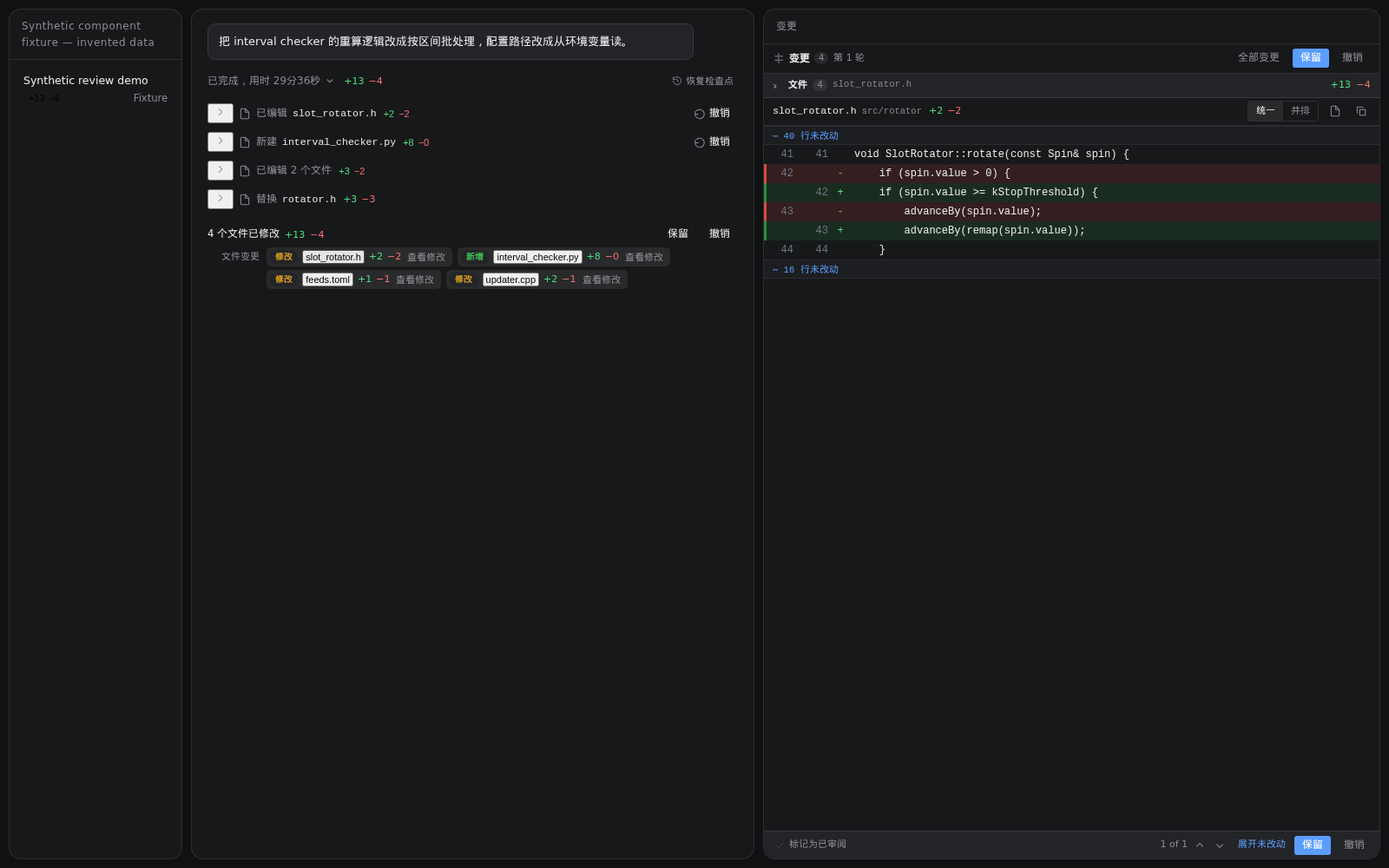
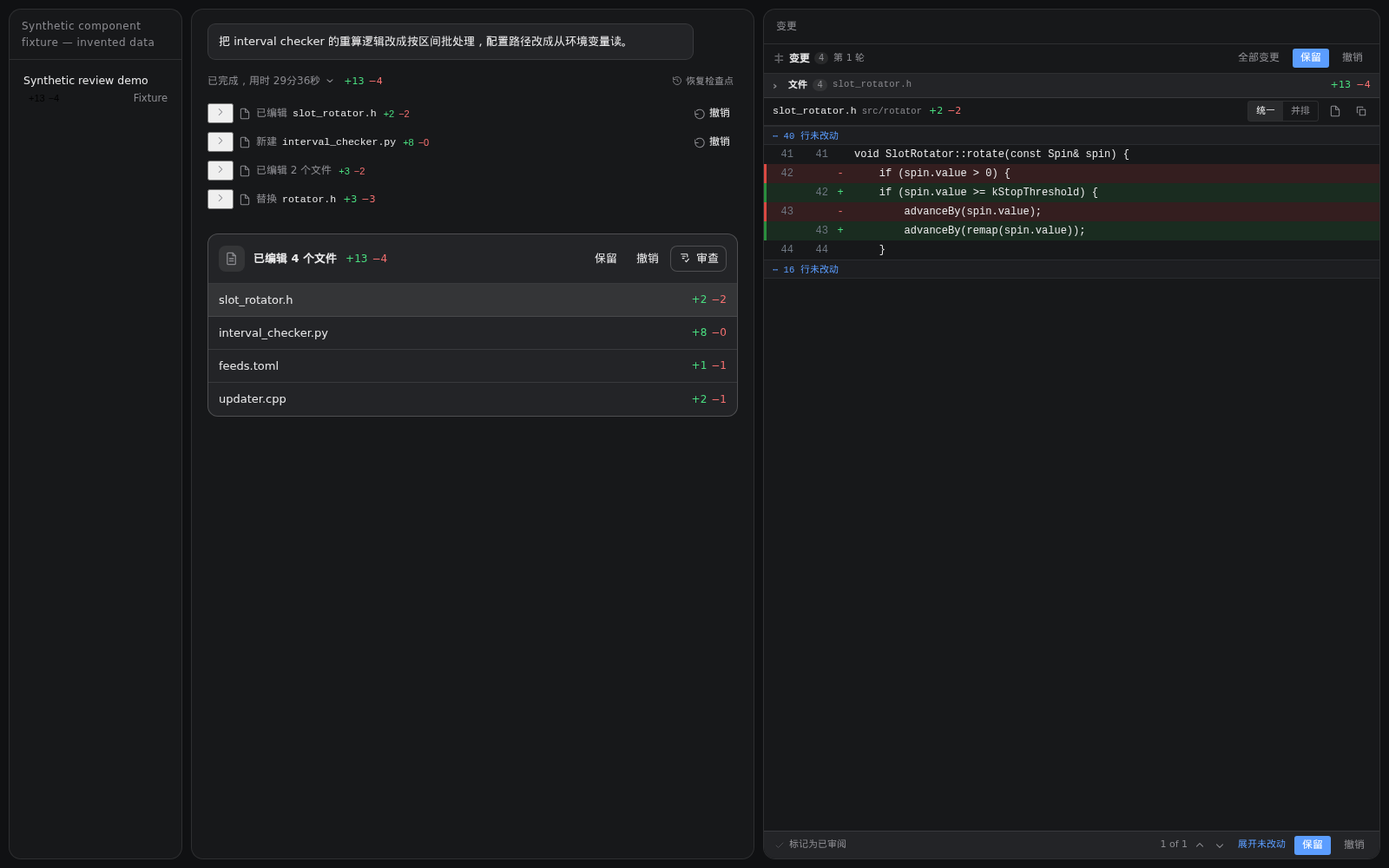
feat(ui): turn footer as a ProducedFiles-style card with a foldable file list
Reuse dsh-file-review's card geometry (12px radius, 30px icon tile, 56px header, 38px div-separated rows, 13px text) instead of a second look for the same numbers: header shows 已编辑 N 个文件 +A -R with 保留/撤销 as quiet text buttons and a bordered 审查, six rows then 另有 N 个文件, and any title/审查/row click opens Changes. Actions sit in one right-aligned group so a narrow column wraps them together. Bump to 0.5.0.

Changed region(s): [[0.125, 0.248, 0.5312, 0.465], [0.5, 0.434, 0.5312, 0.465]]

diff --git a/lib/client.js b/lib/client.js
@@ -1856,20 +1856,67 @@ window.__ModuleLoader__.load({
 			);
 		}
 
+		/** Files listed in the turn footer before the rest fold behind one button. */
+		const TURN_CARD_ROWS = 6;
+
 		/**
-		 * Copilot-style completion footer under a turn: the change count with
-		 * Keep and Undo.
+		 * The 18px document glyph in the footer card's leading tile.
+		 * @returns the svg element.
+		 */
+		function CardFileGlyph() {
+			return h(
+				"svg",
+				{
+					className: "ld-turnglyph",
+					viewBox: "0 0 20 20",
+					fill: "none",
+					stroke: "currentColor",
+					strokeWidth: 1.4,
+					strokeLinecap: "round",
+					strokeLinejoin: "round",
+					"aria-hidden": "true"
+				},
+				h("path", { d: "M5.25 2.75h6l3.5 3.5v10a1 1 0 0 1-1 1h-8.5a1 1 0 0 1-1-1V3.75a1 1 0 0 1 1-1Z" }),
+				h("path", { d: "M11.25 2.75v3.5h3.5M7 10h5M7 13h5" })
+			);
+		}
+
+		/**
+		 * The 16px sheet-and-check glyph on the footer card's Review button.
+		 * @returns the svg element.
+		 */
+		function CardReviewGlyph() {
+			return h(
+				"svg",
+				{
+					className: "ld-turnglyph ld-turnglyph-sm",
+					viewBox: "0 0 20 20",
+					fill: "none",
+					stroke: "currentColor",
+					strokeWidth: 1.4,
+					strokeLinecap: "round",
+					strokeLinejoin: "round",
+					"aria-hidden": "true"
+				},
+				h("path", { d: "M4.5 3.5h8a1 1 0 0 1 1 1v3M6.5 6.5h4M6.5 9.5h2.25" }),
+				h("path", { d: "m10.5 13 1.5 1.5 3.5-4" })
+			);
+		}
+
+		/**
+		 * Completion card under a turn: a header with the edited-file count,
+		 * totals, Keep/Undo/Review, then one divider-separated row per file.
 		 * Renders nothing for a turn that changed no file.
 		 * @param props - `{ turn, sessionId, t }`.
 		 * @returns the element, or null.
 		 */
 		function TurnFooter(props) {
 			const t = makeT(props.t);
-			const zh = isChinese(props.t);
 			const revision = useRevision();
 			const data = useSessionRecords(props.sessionId);
 			const [busy, setBusy] = react.useState(false);
 			const [notice, setNotice] = react.useState(null);
+			const [expanded, setExpanded] = react.useState(false);
 			const sessionId = props.sessionId;
 			const { from, to } = turnWindow(props.turn);
 			const scopeKey = `${sessionId}:${turnNumber(props.turn) ?? from}`;
@@ -1880,7 +1927,6 @@ window.__ModuleLoader__.load({
 			const rows = (data.records ?? []).filter((record) => inTurn(record, props.turn));
 			if (rows.length === 0) return null;
 
-			const paths = new Set(rows.map((record) => record.path));
 			let added = 0;
 			let removed = 0;
 			for (const record of rows) {
@@ -1920,32 +1966,54 @@ window.__ModuleLoader__.load({
 				}
 			}
 
+			// The card lists the first six files and folds the rest behind one
+			// button, so a turn that touched forty files still reads at a glance.
+			const total = byPath.length;
+			const shown = expanded ? byPath : byPath.slice(0, TURN_CARD_ROWS);
+			const hidden = total - shown.length;
+			const openAll = () => openPanel(undefined, sessionId, { turn: turnNumber(props.turn), from, to });
+			const disabled = busy === scopeKey || openCount === 0;
+			const reviewTitle = t("turn.reviewTitle", "Review every file this turn changed");
+			const titleKey = total === 1 ? "turn.editedOne" : "turn.edited";
+			const titleFallback = total === 1 ? "Edited 1 file" : "Edited {count} files";
+
 			return h(
-				"div",
-				{ className: "ld-turn" },
+				"section",
+				{ className: "ld-turn", "aria-label": reviewTitle },
 				h(
 					"div",
-					{ className: "ld-turnbar" },
+					{ className: "ld-turnhead" },
+					h("span", { className: "ld-turnicon", "aria-hidden": "true" }, h(CardFileGlyph, {})),
 					h(
-						"button",
-						{
-							type: "button",
-							className: "ld-files",
-							title: t("turn.filesTitle", "Open this turn's changes"),
-							onClick: () => openPanel(undefined, sessionId, { turn: turnNumber(props.turn), from, to })
-						},
-						fill(t, "turn.files", "{files} files changed", { files: paths.size })
+						"div",
+						{ className: "ld-turntitle" },
+						h(
+							"button",
+							{
+								type: "button",
+								className: "ld-turntitlename",
+								title: t("turn.filesTitle", "Open this turn's changes"),
+								onClick: openAll
+							},
+							fill(t, titleKey, titleFallback, { count: total })
+						),
+						h(
+							"span",
+							{ className: "ld-turnstats", "aria-label": `${added} added, ${removed} removed` },
+							h("span", { className: "ld-add" }, `+${added}`),
+							h("span", { className: "ld-del" }, `−${removed}`)
+						)
 					),
-					h("span", { className: "ld-add" }, `+${added}`),
-					h("span", { className: "ld-del" }, `−${removed}`),
-					h("span", { className: "ld-spacer" }),
 					h(
-						"button",
-						{
-							className: "ld-btn",
-							type: "button",
-							disabled: busy === scopeKey || openCount === 0,
-							title: t("turn.keepTitle", "Dismiss these edits without touching the files"),
+						"div",
+						{ className: "ld-turnactions" },
+						h(
+							"button",
+							{
+								type: "button",
+								className: "ld-turnbtn",
+								disabled,
+								title: t("turn.keepTitle", "Dismiss these edits without touching the files"),
 							onClick: () => void act("keep-turn")
 						},
 						t("bar.keep", "Keep")
@@ -1953,31 +2021,64 @@ window.__ModuleLoader__.load({
 					h(
 						"button",
 						{
-							className: "ld-btn",
 							type: "button",
-							disabled: busy === scopeKey || openCount === 0,
+							className: "ld-turnbtn",
+							disabled,
 							title: t("turn.undoTitle", "Write back the text every edit in this turn replaced"),
 							onClick: () => void act("revert-turn")
 						},
 						t("bar.undo", "Undo")
+					),
+					h(
+						"button",
+						{
+							type: "button",
+							className: "ld-turnbtn ld-turnbtn-strong",
+							title: reviewTitle,
+							onClick: openAll
+						},
+						h(CardReviewGlyph, {}),
+						t("turn.review", "Review")
+						)
 					)
 				),
-				byPath.length > 0
-					? h("div", { className: "ld-filechanges" },
-							h("span", { className: "ld-filechangeslabel" }, zh ? "文件变更" : "File changes"),
-							h("div", { className: "ld-fchips" }, byPath.map((item) => {
-								const first = rows.find((record) => record.path === item.path);
-								const letter = changeLetter(first);
-								const badge = zh ? (letter === "A" ? "新增" : letter === "D" ? "删除" : "修改") : (letter === "A" ? "Added" : letter === "D" ? "Deleted" : "Modified");
+				total > 0
+					? h(
+							"div",
+							{ className: "ld-turnlist" },
+							shown.map((item) => {
 								const parts = pathParts(displayPath(item.path, data?.root ?? props.cwd, props.home));
 								const open = () => openPanel(undefined, sessionId, { turn: turnNumber(props.turn), path: item.path, from, to });
-								return h("span", { key: item.path, className: `ld-fchip ${letter}` },
-									h("button", { type: "button", className: "ld-fchipbadge", title: badge, onClick: open }, badge),
-									h("button", { type: "button", className: "ld-fileitem", title: item.path, onClick: open }, parts.base),
-									h("span", { className: "ld-fchipstats" }, h("span", { className: "ld-add" }, `+${item.added}`), h("span", { className: "ld-del" }, `−${item.removed}`)),
-									h("button", { type: "button", className: "ld-fchipaction", onClick: open }, zh ? "查看修改" : "View diff")
+								return h(
+									"button",
+									{
+										key: item.path,
+										type: "button",
+										className: "ld-turnrow",
+										title: item.path,
+										"aria-label": fill(t, "turn.rowLabel", "Review the change to {path}", { path: parts.base }),
+										onClick: open
+									},
+									h("span", { className: "ld-turnrowname" }, parts.base),
+									h(
+										"span",
+										{ className: "ld-turnstats" },
+										h("span", { className: "ld-add" }, `+${item.added}`),
+										h("span", { className: "ld-del" }, `−${item.removed}`)
+									)
 								);
-							}))
+							}),
+							hidden > 0
+								? h(
+										"button",
+										{
+											type: "button",
+											className: "ld-turnmore",
+											onClick: () => setExpanded(true)
+										},
+										hidden === 1 ? fill(t, "turn.moreOne", "1 more file") : fill(t, "turn.more", "{count} more files", { count: hidden })
+									)
+								: null
 						)
 					: null,
 				notice?.key === scopeKey && notice.text ? h("div", { className: "ld-notice", role: "alert" }, notice.text) : null
@@ -2036,6 +2137,8 @@ window.__ModuleLoader__.load({
 	--ld-bg: var(--dsw-alias-bg-base, #1f1f1f);
 	--ld-chrome: var(--dsw-alias-bg-module-platform, #252526);
 	--ld-line: var(--dsw-alias-border-l1, #3c3c3c);
+	--ld-line-strong: var(--dsw-alias-border-l2, #4f4f4f);
+	--ld-card: var(--dsw-alias-bg-container, var(--ld-chrome));
 	--ld-text: var(--dsw-alias-label-primary, #cccccc);
 	--ld-muted: var(--dsw-alias-label-tertiary, #9d9d9d);
 	--ld-hover: var(--dsw-alias-interactive-bg-hover, rgba(255, 255, 255, .06));
@@ -2197,22 +2300,28 @@ window.__ModuleLoader__.load({
 .ld-inline { margin: 2px 0 6px 20px; border: 1px solid var(--ld-line); border-radius: 4px; overflow: hidden; background: var(--ld-bg); }
 .ld-inline .ld-diff { margin: 0; border: 0; border-radius: 0; }
 .ld-inline-note { padding: 4px 8px; font-size: 10.5px; color: var(--ld-muted); background: var(--ld-chrome); border-bottom: 1px solid var(--ld-line); }
-.ld-turn { display: flex; flex-direction: column; gap: 2px; padding: 4px 0 2px; }
-.ld-turnbar { display: flex; align-items: center; gap: 6px; min-height: 22px; font-size: 11.5px; color: var(--ld-muted); flex-wrap: wrap; }
-.ld-files { display: inline-flex; align-items: center; gap: 4px; padding: 0; border: 0; background: none; font: inherit; font-size: 11.5px; color: var(--ld-text); cursor: pointer; }
-.ld-files:hover { color: var(--ld-accent); }
-.ld-filechanges { display: flex; align-items: flex-start; gap: 8px; padding: 2px 0 0 16px; font-size: 11px; line-height: 20px; color: var(--ld-muted); }
-.ld-filechangeslabel { flex: none; padding-top: 1px; }
-.ld-fchips { display: flex; flex-wrap: wrap; gap: 4px 6px; min-width: 0; }
-.ld-fchip { display: inline-flex; align-items: center; gap: 5px; min-width: 0; padding: 1px 6px 1px 4px; border-radius: 5px; background: var(--ld-hover); }
-.ld-fchip .ld-fileitem { width: auto; min-height: 0; padding: 0 2px; font-size: 11px; }
-.ld-fchipbadge { flex: none; height: 16px; padding: 0 6px; border: 0; border-radius: 8px; background: var(--ld-chrome); color: var(--ld-muted); font: inherit; font-size: 9.5px; font-weight: 600; line-height: 16px; letter-spacing: .01em; cursor: pointer; white-space: nowrap; }
-.ld-fchip.A .ld-fchipbadge { color: #3fb950; }
-.ld-fchip.D .ld-fchipbadge { color: #f85149; }
-.ld-fchip.M .ld-fchipbadge { color: #d29922; }
-.ld-fchipstats { display: inline-flex; gap: 5px; font-size: 10.5px; }
-.ld-fchipaction { border: 0; background: none; padding: 0 2px; border-radius: 3px; font: inherit; font-size: 10.5px; color: var(--ld-muted); cursor: pointer; }
-.ld-fchipaction:hover { color: var(--ld-accent); text-decoration: underline; }
+.ld-turn { display: flex; flex-direction: column; margin: 14px 0 2px; border: 1px solid var(--ld-line-strong); border-radius: 12px; background: var(--ld-card); color: var(--ld-text); font-size: 13px; overflow: hidden; }
+.ld-turnhead { display: flex; flex-wrap: wrap; align-items: center; gap: 8px 10px; min-height: 56px; padding: 10px 12px; }
+.ld-turnicon { display: grid; place-items: center; flex: none; width: 30px; height: 30px; border-radius: 8px; background: var(--ld-hover); color: var(--ld-muted); }
+.ld-turnglyph { width: 18px; height: 18px; }
+.ld-turnglyph-sm { width: 16px; height: 16px; }
+.ld-turntitle { display: flex; flex: 1 1 auto; align-items: baseline; gap: 10px; min-width: 0; }
+.ld-turntitlename { min-width: 0; max-width: 100%; padding: 0; border: 0; background: none; color: inherit; font: inherit; font-size: 13px; font-weight: 600; text-align: left; white-space: nowrap; overflow: hidden; text-overflow: ellipsis; cursor: pointer; }
+.ld-turntitlename:hover { color: var(--ld-accent); }
+.ld-turnstats { display: inline-flex; flex: none; gap: 5px; font-variant-numeric: tabular-nums; }
+.ld-turnstats .ld-add, .ld-turnstats .ld-del { font-size: 12px; }
+.ld-turnactions { display: flex; flex: none; align-items: center; gap: 4px; margin-left: auto; }
+.ld-turnbtn { display: inline-flex; flex: none; align-items: center; gap: 5px; min-height: 30px; padding: 0 8px; border: 1px solid transparent; border-radius: 8px; background: none; color: var(--ld-text); font: inherit; font-size: 12.5px; white-space: nowrap; cursor: pointer; }
+.ld-turnbtn:hover:not(:disabled) { background: var(--ld-hover); }
+.ld-turnbtn:disabled { opacity: .45; cursor: default; }
+.ld-turnbtn-strong { border-color: var(--ld-line-strong); background: var(--ld-card); }
+.ld-turnlist { border-top: 1px solid var(--ld-line); }
+.ld-turnrow { display: flex; align-items: center; gap: 12px; width: 100%; min-height: 38px; margin: 0; padding: 0 12px; border: 0; border-bottom: 1px solid var(--ld-line); background: none; color: var(--ld-text); font: inherit; font-size: 13px; text-align: left; cursor: pointer; }
+.ld-turnrow:hover { background: var(--ld-hover); }
+.ld-turnrow:last-child { border-bottom: 0; }
+.ld-turnrowname { flex: 1 1 auto; min-width: 0; overflow: hidden; text-overflow: ellipsis; white-space: nowrap; }
+.ld-turnmore { display: block; width: 100%; min-height: 34px; margin: 0; padding: 0 12px; border: 0; background: none; color: var(--ld-muted); font: inherit; font-size: 12px; line-height: 34px; text-align: left; cursor: pointer; }
+.ld-turnmore:hover { background: var(--ld-hover); color: var(--ld-text); }
 .ld-badge { display: inline-flex; align-items: center; gap: 5px; padding: 0 2px; border: 0; background: none; font-variant-numeric: tabular-nums; cursor: pointer; }
 .ld-badge:hover .ld-add, .ld-badge:hover .ld-del { text-decoration: underline; }
 .ld-row { display: flex; flex-direction: column; gap: 4px; padding: 2px 0; }
@@ -2265,6 +2374,13 @@ window.__ModuleLoader__.load({
 			"node.openReview": "在侧边栏查看 {files} 个文件的改动",
 			"node.openFile": "在侧边栏查看 {path} 的改动",
 			"turn.filesTitle": "展开这一轮改过的文件",
+			"turn.edited": "已编辑 {count} 个文件",
+			"turn.editedOne": "已编辑 1 个文件",
+			"turn.more": "另有 {count} 个文件",
+			"turn.moreOne": "另有 1 个文件",
+			"turn.review": "审查",
+			"turn.reviewTitle": "审查这一轮改过的每一个文件",
+			"turn.rowLabel": "在侧边栏查看 {path} 的改动",
 			"chinese.marker": "中文",
 			"bar.keep": "保留",
 			"bar.kept": "已保留",
@@ -2320,6 +2436,13 @@ window.__ModuleLoader__.load({
 			"node.openReview": "Review {files} changed files in the side panel",
 			"node.openFile": "Review the change to {path} in the side panel",
 			"turn.filesTitle": "Show the files this turn changed",
+			"turn.edited": "Edited {count} files",
+			"turn.editedOne": "Edited 1 file",
+			"turn.more": "{count} more files",
+			"turn.moreOne": "1 more file",
+			"turn.review": "Review",
+			"turn.reviewTitle": "Review every file this turn changed",
+			"turn.rowLabel": "Review the change to {path}",
 			"chinese.marker": "en",
 			"bar.keep": "Keep",
 			"bar.kept": "Kept",

diff --git a/docs/verification.md b/docs/verification.md
@@ -1,30 +1,32 @@
 # Verification and delivery notes
 
-Development branch: `feat/copilot-review-checkpoints`, isolated checkout `dsh-copilot-diff-review`, base `e734ab3` (0.1.13). Candidate version `0.4.2`; no registry publish or GitHub push performed.
+Development branch: `feat/copilot-review-checkpoints`, isolated checkout `dsh-copilot-diff-review`, base `e03c2d2` (0.4.2). Candidate version `0.5.0`; no registry publish or GitHub push performed.
 
 ## Verified
 
-- Final `npm test`: **89 passed / 0 failed**, exit 0. The suite keeps the 0.3.0 regressions (created/deleted files render their body without `@@` bars, unchanged runs fold into `⋯ N unchanged lines`) and now adds eight write-guard cases (blocked/blocked-allowlisted patterns), plus the 0.4.2 layout rules: the turn footer renders one compact chip per file, the Changes file index starts folded (`0` `ld-frow` rows), expands on `ld-fileshead`, and folds again after a file is chosen.
-- `node --check` passes for `lib/client.js`, `lib/index.js`, `lib/checkpoints.js`, and the preview/browser-smoke tools.
-- Synthetic browser fixture (`tools/browser-smoke.mjs`, existing CDP Chromium on 9333, no new server): opens a turn, confirms no aggregated edit list, expands one real call's inline diff, opens the Changes pane (asserting the index starts folded and folds after selection), folds/unfolds unchanged context, switches Inline → Side by side, switches files, then mounts a 1200-line file and checks the virtual window. No page errors. Result: `{"fixture":"synthetic","codeVisible":true,"inlineDiff":true,"pageErrors":[],"screenshot":"output/playwright/copilot-review.png"}`.
-- Virtualization evidence from the same run: `.ld-difflines.ld-vscroll` has `scrollHeight` 26488 px (≈1204 rows × 22 px), only **43** `.ld-line` nodes mounted, and setting `scrollTop = scrollHeight` surfaces `line 1200`. A later rAF-throttled scroll re-renders the window only, not the whole file.
-- Screenshots regenerated with `tools/shots.mjs` from the real components + synthetic data: `docs/screenshots/overview.png` (chat chip row + folded file index), `docs/screenshots/expanded.png` (Changes pane with the file index open), `docs/screenshots/inline.png` (chat: one edit's in-place diff), `docs/screenshots/split.png` (Side by side). Local OCR of `overview.png` confirms the chip row (`修改 slot_rotator.h +2 −2 查看修改`) and the folded pane line (`文件 4 slot_rotator.h +13 −4`). The vision backend timed out for this pass, so layout claims rest on DOM metrics and OCR.
-- DOM metrics: pane ≈709 px wide; editor bar and footer 32 px; file row 26 px; diff line 12 px/22 px monospace with 40 px line-number slot and 3 px inset change bar; no horizontal overflow; add `rgba(46,160,67,.15)`, delete `rgba(248,81,73,.13)`, gap `rgba(110,118,129,.07)`.
-- `npm pack` dry-run includes `lib/checkpoints.js` and every imported runtime module; archive extraction and ESM import of the server entry succeed. Package: `output/package/dsh-copilot-diff-0.4.2.tgz`.
+- Final `npm test`: **90 passed / 0 failed**, exit 0. The suite keeps the 0.3.0 regressions (created/deleted files render their body without `@@` bars, unchanged runs fold into `⋯ N unchanged lines`), the 0.4.2 pane rules (the Changes file index starts folded with `0` `ld-frow` rows, expands on `ld-fileshead`, and folds again after a file is chosen), and adds the 0.5.0 footer-card rules: one `ld-turnrow` per file, the header counts files (`Edited 1 file`), Keep/Undo/Review are `ld-turnbtn`s in the header, and a nine-file turn shows **six** rows plus `3 more files`, revealing all nine on click and dropping the fold button.
+- `node --check` passes for `lib/client.js`, `test/client.test.mjs` and the preview/browser-smoke tools.
+- Synthetic browser fixture (`tools/browser-smoke.mjs`, existing CDP Chromium on 9333, no new server): opens a turn, clicks a footer row (`.ld-turnrow`), confirms no aggregated edit list, expands one real call's inline diff, opens the Changes pane (index starts folded, folds after selection), folds/unfolds unchanged context, switches Inline → Side by side, switches files, then mounts a 1200-line file and checks the virtual window. No page errors. Result: `{"fixture":"synthetic","codeVisible":true,"inlineDiff":true,"pageErrors":[],"screenshot":"output/playwright/copilot-review.png"}`.
+- Screenshots regenerated with `tools/shots.mjs` from the real components + synthetic data: `docs/screenshots/overview.png` (chat footer card + folded file index), `docs/screenshots/expanded.png`, `docs/screenshots/inline.png`, `docs/screenshots/split.png`.
+- Footer-card geometry read back from the rendered fixture at 1600×1000: card 611×211 px, `border-radius` 12 px, border `1px rgba(255,255,255,.2)`, background `rgb(35,36,39)`, `font-size` 13 px, header 56 px, file row 38 px, divider `1px rgba(255,255,255,.1)`, 4 rows, no fold button. At a 380 px column the header wraps to two rows with the three actions grouped and right-aligned rather than splitting. A vision pass over the same render reported a single-row header (icon, `已编辑 4 个文件 +13 −4`, `保留 / 撤销 / 审查` right-aligned and grouped), names left / stats right per row, 1 px dividers, and no clipping or overlap.
+- `npm pack` dry-run includes `lib/checkpoints.js` and every imported runtime module; archive extraction and ESM import of the server entry succeed. Package: `output/package/dsh-copilot-diff-0.5.0.tgz`.
 
 ## Environment limitations
 
 - Fresh requests and a browser tab to `http://127.0.0.1:3080` return 401 (requires the URL/authentication established by `dsh web`). No credentials were read or copied. Authenticated actual-host GUI integration is not claimed; the fixture renders the real components with synthetic records.
-- The vision backends used for screenshot reading returned timeouts for part of this pass (`VISION_BACKEND_UNAVAILABLE_THIS_TURN`), though two descriptions succeeded. Every visual claim above is also backed by rendered DOM text/metrics and local OCR, not by the model review alone.
+- The running server process also hosts the agent session that made this change, so it was not restarted. The 0.5.0 files **are** copied into the live profile (`/home/zhujinhui/.dsh/profiles/web/node_modules/dsh-copilot-diff/`, `package.json` now 0.5.0) and the browser reloads them on refresh; that refresh is the user's step, and the card has not been observed inside the authenticated GUI.
 - New Chromium launch from CLI fails missing `libatk-1.0.so.0`; the existing CDP browser on port 9333 works for the synthetic component fixture.
 - Installed real `LocalFileSystem` smoke reads, stats and resolves targets, but atomic writes fail `EXDEV` on the staging-directory rename in the current tool sandbox. Generic Node child-directory-to-parent rename reproduces EXDEV on the same ext4 filesystem; same-directory sibling rename succeeds. Root cause is unconfirmed. Do not claim actual host restore passed, and do not bypass the host filesystem with raw writes.
-- The running Web profile has not been replaced/restarted during development, and the new build is not installed into it. Host changes need plugin reload/restart and browser refresh. No watcher `pnpm run dev:web` was running; automatic hot updates are not promised.
 
 ## Decisions
 
-- The turn footer no longer stacks full-width file rows: it follows `dsh-file-changes` and renders one compact chip per file (`[修改] name +A −R 查看修改`), wrapping naturally in a narrow chat column. The Changes pane's file index is a single folded `› 文件 N · current file +A −R` header by default; opening it shows the list, and choosing a file folds it again so the diff keeps the height.
+- The turn footer is now a card, not a chip row: it reuses the geometry of `dsh-file-review`'s ProducedFiles card (12 px radius, 30 px icon tile, 56 px header, 38 px divider-separated rows, 13 px text, `已编辑 N 个文件 +A −R`) instead of inventing a second look for the same information. Clicking the title, **审查**, or any row opens the Changes pane, and a row click still scopes it to that file.
+- **保留** stays, as a quiet text button beside **撤销** and the bordered **审查**. `dsh-file-review` has no Keep action, but this plugin does (`turn.keepTitle`: keep the edits and stop tracking them), and dropping the button would silently remove functionality. The three actions live in one `.ld-turnactions` group with `margin-left: auto`, so a narrow chat column wraps them as a unit to a right-aligned second row instead of orphaning **审查** on the left.
+- The card lists six files and folds the rest behind `另有 N 个文件` (`TURN_CARD_ROWS = 6`), matching `dsh-file-review`'s `SHOWN_LIMIT`; expansion is local `useState`, and the button disappears once expanded.
+- Per-file status pills (`新增 / 修改 / 删除`) and the per-row `查看修改` link are gone: the row itself is the affordance, and the status still shows in the pane and on the inline call rows.
+- The Changes pane's file index stays a single folded `› 文件 N · current file +A −R` header by default; opening it shows the list, and choosing a file folds it again so the diff keeps the height.
 - The chat no longer builds its own list of edits. `turn-process` is only the "Completed in …" fold header plus `+A −R` and Restore Checkpoint; reasoning, commands and edit rows stay in the host's original order, and each file tool's diff renders through the keyed `tool.call.toolview` slot on that call. This is what makes "think → command → edit" interleave instead of collapsing into one summary.
-- Shell-driven edits (`sed`, `python -c`, scripts) have no per-command attribution in the host's workspace event, so with the guard off they appear only in the turn footer's `N files changed` list. File tools (`edit` / `write` / `apply_patch` / `str_replace_editor`) get an inline diff at their call.
+- Shell-driven edits (`sed`, `python -c`, scripts) have no per-command attribution in the host's workspace event, so with the guard off they appear only in the turn footer's file list. File tools (`edit` / `write` / `apply_patch` / `str_replace_editor`) get an inline diff at their call.
 - The write guard runs in `tools/pre-execute` and denies `sed -i`, `perl -i`, writing Python heredocs/`-c`, `tee`/redirection, `dd`, `truncate`, `git apply|checkout|restore|reset --hard|clean -f`, and `patch` when their targets are not disposable. Build/cache directories, `/tmp`, `/var/tmp` and `/dev/null` stay writable; `DSH_COPILOT_DIFF_GUARD=off` disables the guard. This is a heuristic against accidental shell edits, not a sandbox: dynamically constructed commands can bypass it. Denials return the tool error text to the model, which is expected to retry with a recorded file tool.
 - Inline diffs start collapsed, matching Copilot's step rows; clicking the row (or chevron) expands the whole-file context with `⋯ N unchanged lines` gaps that open on demand.
 - The whole-file view is reconstructed from bounded before/after snapshots plus hunk coordinates. Historical records without a snapshot fall back to hunk rendering and say so. `file-text` remains a read-only RPC over persisted records and applies the same visibility filter; the client no longer calls it after removing the turn list.

diff --git a/README.md b/README.md
@@ -4,6 +4,8 @@
 
 一个 DeepSeek Harness Web 插件。文件工具保留逐调用 diff；新的逐轮工作区快照按磁盘实际变化识别 `sed`、Python `replace`、脚本及其它命令行修改，提供轮级净改动和持久化检查点。它不调用模型。快照范围和排除项会显示在检查点处；超出覆盖范围的文件不会假装可以恢复。
 
+**0.5.0 新交互**：轮末页脚从一行 chip 改成一张卡片，和 `dsh-file-review` 的产出文件卡同一个样子——左边圆角图标，接着 `已编辑 N 个文件 +A −R`，右侧是 **保留**、**撤销** 与带图标的 **审查**；下面每个文件一行（文件名居左、`+A −R` 居右、1px 分隔线），只列前 6 个，其余收进 `另有 N 个文件`，点一下展开。点标题、**审查** 或任意一行都打开 Changes。
+
 **0.4.2 新交互**：轮末不再铺开一整列文件——改成和 `dsh-file-changes` 一样的紧凑 chip：`[修改] client.js +11 −1 查看修改`，一行放不下就自动换行，点徽标或文件名都可直接打开该文件的 diff。右侧 **Changes** 面板的文件索引默认收起，只留 `› 文件 7 · 当前文件` 一行；点 `›` 才展开，选中文件后又自动收起，把整块高度让给 diff——与 VS Code 里「Changes 列表按需展开」的手感一致。
 
 **0.4.0 新交互**：忠实于真实执行过程——思考、命令、编辑按原始顺序出现，编辑的 diff 就长在对应的工具调用行里（默认收起，点一下就地展开），不再在轮末把整轮改动重新罗列成一片文件列表。右侧 **Changes** 面板仍是文件列表 + 整文件 diff，但改为按行虚拟化：只渲染视口内的行，几千行的文件滚动也不再卡；同时把行高、左侧增删色条、选中条、图标按钮对齐到 VS Code 的密度。轮次头的 **Restore Checkpoint** 是低调文字链接：确认后把文件恢复到该轮开始前（包含之后轮次已记录修改），聊天记录保留。
@@ -126,7 +128,7 @@ DSH_INSTALL=/path/to/node_modules/@deepseek-ai/dsh node tools/host-fs-smoke.mjs
 | --- | --- | --- |
 | 轮次内每处编辑 | `已编辑 src/rotator/slot_rotator.h  +2 −2`，下一行就是该文件的 diff | 行首 `>` 收起/展开；文件名或右侧图标 → Changes 定位 |
 | 未改动区域 | `⋯ 40 行未改动` | 展开完整上下文；再点收起 |
-| 轮末 | `4 个文件已修改  +13 −4` ＋ `文件变更` chip 行（`[修改] client.js +11 −1 查看修改`）＋ **保留 / 撤销** | 徽标或文件名 → Changes 该轮该文件；`查看修改` 同样打开该文件 |
+| 轮末 | 文件卡：`已编辑 4 个文件 +13 −4`，右侧 **保留 / 撤销 / 审查**；下面逐文件一行（`slot_rotator.h +2 −2`），超过 6 个收进 `另有 N 个文件` | 点标题、**审查** 或任意一行 → Changes 该轮（某行 = 该文件）；**保留 / 撤销** 作用于整轮 |
 | Changes 侧栏 | 默认 `› 文件 4 · slot_rotator.h` 一行；展开后才是文件列表 + 整文件 diff + 顶部统计/作用域 | 点 `›` 展开；选文件后列表自动收起；切模式、`1 of N` 导航、Mark as Reviewed、Keep/Undo |
 | 恢复检查点 | 轮次头 `↺ 恢复检查点` 文字链接 | 确认后恢复到该轮开始前 |
 
@@ -181,11 +183,12 @@ node tools/backfill.mjs --dry
 - 历史回填依赖会话日志里能拿到前后文本：`apply_patch` 只写补丁、`dshFileReview` 元数据又缺失时，这条调用补不出来。
 - 撤销是「整条记录」粒度的；一次 `apply_patch` 里同一文件的多次改动会合成一条记录。
 - 记录随 session 走；跨 session 的同一文件改动不会合并计数。
-- 本分支为 `0.4.2` 开发版本。仓库中的版本号不代表已发布 npm；请使用本地安装或本次交付的 npm 包。
+- 本分支为 `0.5.0` 开发版本。仓库中的版本号不代表已发布 npm；请使用本地安装或本次交付的 npm 包。
 
 ## 变更记录
 
-- `0.4.2`（本分支）— 复用 `dsh-file-changes` 的轮末形态：逐文件列表改成紧凑 chip（`[修改] 文件名 +A −R 查看修改`），窄栏自动换行；Changes 面板的文件索引默认收起，标题行改为 `› 文件 N · 当前文件 +A −R` 的一键展开控件，选中文件后自动收起，把高度留给 diff。
+- `0.5.0`（本分支）— 轮末页脚改版：复用 `dsh-file-review` 产出文件卡的形态（12px 圆角卡片、30px 图标块、`已编辑 N 个文件 +A −R`、1px 分隔线的逐文件行、`另有 N 个文件` 折叠前 6 行），**保留** 作为额外文字按钮与 **撤销 / 审查** 同排；点标题、**审查** 或任意一行都打开 Changes，行级点击仍直接定位到该文件。窄栏时按钮组整组换到第二行并右对齐，不再把 **审查** 单独甩到左边。
+- `0.4.2` — 复用 `dsh-file-changes` 的轮末形态：逐文件列表改成紧凑 chip（`[修改] 文件名 +A −R 查看修改`），窄栏自动换行；Changes 面板的文件索引默认收起，标题行改为 `› 文件 N · 当前文件 +A −R` 的一键展开控件，选中文件后自动收起，把高度留给 diff。
 - `0.4.1` — 命令行改写保护：`tools/pre-execute` 在 bash 真正执行前检查命令，命中静默改文件模式时直接拒绝并给出改用文件工具的提示；默认开启，`DSH_COPILOT_DIFF_GUARD=off` 可关闭。Changes 面板的 Mark as Reviewed 现在会自动跳到下一个未审阅文件，标题旁显示 `已审阅/总数`。
 - `0.4.0`— 忠实执行顺序与滚动性能：去掉“展开轮次后平铺整轮文件列表”的汇总视图，编辑重新出现在各自的 `tool.call` 位置（`tool.call.toolview`），轮次头只保留完成状态、`+A −R` 与 Restore Checkpoint；整文件 diff 改为固定 22px 行高的窗口化渲染（>240 行启用），`fullRows` 结果按输入缓存、滚动用 rAF 节流，`1 of N` 跳转走 `navRef` 直接定位；Changes 面板加增删色条、40px 行号槽、26px 文件行、↑/↓ 切文件与“在编辑器中打开”；`str_replace_editor` 计入就地 diff；preview/smoke 支持虚拟滚动断言。
 - `0.3.0` — 对齐 Copilot Chat 的审阅 UI：展开轮次后每个编辑行就地显示 diff；整文件上下文（未改动区可展开）；右侧 Changes 面板重做为文件列表 + 整文件 diff 编辑器（Inline／Side by side、`1 of N` 导航、Mark as Reviewed、复制、按文件 Keep/Undo）；Restore Checkpoint 改为低调文字链接；新增 `file-text` RPC 与 4 MiB 上限；新建/删除文件也能渲染完整正文。
